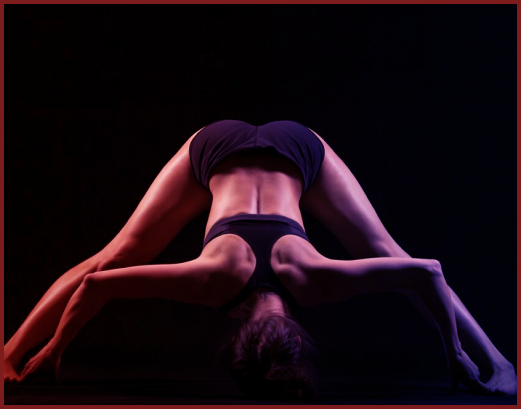
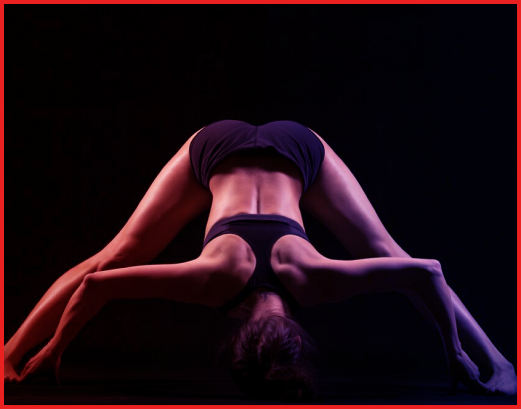
add images

Changed region(s): [[0.0, 0.0, 1.0, 1.0]]

diff --git a/tailwind.config.ts b/tailwind.config.ts
@@ -16,7 +16,7 @@ module.exports = {
         'custom-feed-gradient-t': 'linear-gradient(0deg, rgba(9,9,11,1) 10%, rgba(0,0,0,0) 100%)',
       },
       colors: {
-        'vlada-bordo-100': '#7C1C1C',
+        'vlada-bordo-100': '#EB2121',
         'vlada-bordo-200': '#110E0E',
       },
       fontFamily: {

diff --git a/nuxt.config.ts b/nuxt.config.ts
@@ -3,5 +3,5 @@ export default defineNuxtConfig({
   compatibilityDate: '2024-04-03',
   devtools: { enabled: true },
   css: ['@/assets/root.css'],
-  modules: ['@nuxtjs/tailwindcss', 'nuxt-swiper']
+  modules: ['@nuxtjs/tailwindcss', 'nuxt-swiper', 'nuxt-aos']
 })
